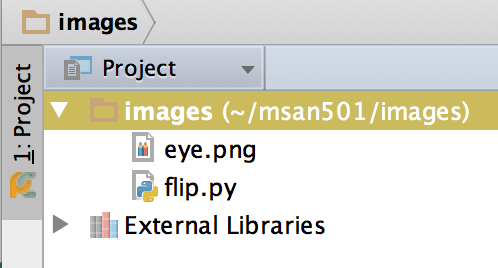
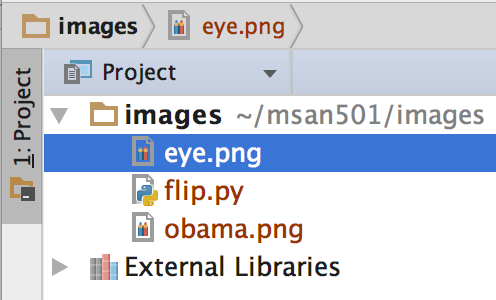
add git stuff to images

diff --git a/projects/images.tex b/projects/images.tex
@@ -252,9 +252,40 @@ Type "help", "copyright", "credits" or "license" for more information.
 
 That {\tt reinstall} command is also what you should if {\tt pip} or {\tt easy\_install} ever get hosed. Try to do everything with {\tt brew}.
 
+\section{Git repo}
+
+Let's prepare the environment so that submitting this project is easy. Download \href{https://www.sourcetreeapp.com/download/}{\textcolor{blue}{SourceTree}}. In SourceTree, choose {\tt File:New/Clone} and then {\tt Clone from URL}:
+
+\scalebox{.3}{\includegraphics{figures/source-tree-choices.png}}
+
+\noindent Then go to the URL associated with your images project at github: 
+
+{\tt https://github.com/USF-MSAN-2016/YOURID-images}
+
+\noindent and copy the URL from here:
+
+\scalebox{.9}{\includegraphics{figures/github-url.png}}
+
+\noindent Then, paste back in SourceTree, and set {\tt Destination Path} to {\tt /Users/YOURID/msan501/images}:
+
+\scalebox{.7}{\includegraphics{figures/source-tree-clone.png}}
+
+\noindent Or, from the command line, you can do this faster and easier:
+
+\begin{lstlisting}[style=BashInputStyle]
+$ cd ~/msan501
+$ git clone git@github.com:USF-MSAN-2016/parrt-images.git images
+Cloning into 'images'...
+warning: You appear to have cloned an empty repository.
+Checking connectivity... done.
+$ cd images
+\end{lstlisting}
+
+\noindent There is nothing in the repo yet, but we'll get to it!
+
 \section{Getting started}
 
-To get started, review how to access the \href{http://stackoverflow.com/questions/4117530/sys-argv1-meaning-in-script}{\textcolor{blue}{command-line arguments}} that every program running on a computer can accept. Here is a small program, \href{}{\tt view.py}, that accepts a filename as a command-line argument.
+To get started, review how to access the \href{http://stackoverflow.com/questions/4117530/sys-argv1-meaning-in-script}{\textcolor{blue}{command-line arguments}} that every program running on a computer can accept. Here is a small program, \href{https://github.com/parrt/msan501/blob/master/projects/code/images/view.py}{\tt view.py}, that accepts a filename as a command-line argument.
 
 \begin{pyverbatim}
 import sys
@@ -271,30 +302,31 @@ img.show()
 To run this program, launch a terminal on Mac or Linux. Then, move to the directory that contains {\tt view.py} that you saved/typed-in using terminal command {\tt cd} (change directory).  For example, if you are using directory {\tt msan501/images} under your home directory for this project, then type this for Mac:
 
 \begin{lstlisting}[style=BashInputStyle]
-cd /Users/YOURID/msan501/images
+cd ~/msan501/images; # ~ character is shorthand for /Users/YOURID
 \end{lstlisting}
 
-\noindent and this for Linux:
+You can get a \href{https://github.com/parrt/msan501/tree/master/projects/figures}{\textcolor{blue}{bunch of sample images}} that I use for these notes from github, but of course you can play around with whatever images you want.\sidenote{Remember, however, that all images used in this class and those stored on University equipment must be ``safe for work.'' Keep it G-rated please, with no offensive images popping up on your laptops or machines during lab etc.}
 
-\begin{lstlisting}[style=BashInputStyle]
-cd /home/YOURID/msan501/images
-\end{lstlisting}
-
-You can get a \href{https://github.com/parrt/msan501/tree/master/projects/figures}{\textcolor{blue}{bunch of sample images}} that I use for these notes from github.
-
-\noindent but of course you can play around with whatever images you want.\sidenote{Remember, however, that all images used in this class and those stored on University equipment must be ``safe for work.'' Keep it G-rated please, with no offensive images popping up on your laptops or machines during lab etc.}
-
-\noindent Now, we can execute our {\tt view.py} script and pass it an argument of {\tt obama.png}:
+Now, we can execute our {\tt view.py} script and pass it an argument of {\tt obama.png}:
 
 \begin{lstlisting}[style=BashInputStyle]
 $ python view.py obama.png
 \end{lstlisting}
 
-If you are using PyCharm, then you need to use the ``{\tt\small Edit configuration}'' dialog under the {\tt Run} menu.  All file names that we specify in the script parameters area, or from the command line, are relative to the {\em current working directory}. That is why we used {\tt cd} to change our working directory in the example above. For convenience, let's keep all of images and scripts in the same directory. For our purposes, let's assume that the directory is always {\tt\small /Users/YOURID/msan501/images} (Mac) or {\tt\small /home/YOURID/msan501/images} (Linux).
+If you are using PyCharm, you need to right-click in the code editor and say ``run view.py,'' which will ``fail'' with this message in the Run tab:
+
+\begin{alltt}
+/usr/local/bin/python /Users/parrt/github/msan501/projects/code/images/view.py
+$ python view.py imagefilename
+\end{alltt}
+
+\noindent Now, use the ``{\tt\small Edit configuration}'' dialog under the {\tt Run} menu.  All file names that we specify in the script parameters area, or from the command line, are relative to the {\em current working directory}. That is why we used {\tt cd} to change our working directory in the example above. For convenience, let's keep all of images and scripts in the same directory. For our purposes, let's assume that the directory is always {\tt\small /Users/YOURID/msan501/images} (Mac) or {\tt\small /home/YOURID/msan501/images} (Linux).
 
 \scalebox{1}{\includegraphics{figures/edit-config.png}}
 
 The ``Script parameters'' text field is where you provide the ``command-line arguments,'' despite the fact we are not actually using a command-line. That is why PyCharm calls it script parameters instead of command-line parameters.
+
+\pagebreak
 
 \section{Task 1. Flipping an image horizontally}
 
@@ -310,7 +342,11 @@ As a first task, you must create a script called {\tt flip.py} that shows the im
 
 \subsection{Boilerplate code}
 
-Here's the boilerplate or ``skeleton'' code (already in repo as {\tt images/flip.py}) that we already know how to do but with a hole where you need to define a function called {\tt flip} and a hole where you need to call that function to perform the flipping:
+Here's the boilerplate or ``skeleton'' code from:
+
+\href{https://github.com/parrt/msan501-starterkit/tree/master/images/flip.py}{\tt\small https://github.com/parrt/msan501-starterkit/tree/master/images/flip.py}
+
+\noindent that we already know how to do but with a hole where you need to define a function called {\tt flip} and a hole where you need to call that function to perform the flipping:
 
 \begin{pyverbatim}
 import sys
@@ -331,35 +367,64 @@ img.show()
 img.show()
 \end{pyverbatim}
 
-If you are using PyCharm, your project file list area should look like the list in \figref{fliplist}. It assumes that you have downloaded two image files as well.
+\subsection{Adding files to your repo}
+
+If you are using PyCharm, when you open the dir in PyCharm, it will notice that the dir is a git repo, but check anyway in the version control preferences:
+
+\scalebox{.9}{\includegraphics{figures/pycharm-git.png}}
 
 \begin{marginfigure}
 \begin{center}
 \scalebox{.8}{\includegraphics{figures/flip-proj-browser.png}}
 \end{center}
-\caption{Project file list after building the flip task}
+\caption{Project file list after creating the flip.py file}
 \label{fliplist}
 \end{marginfigure}
 
-The files are already in the repository because I did the following:
+\begin{marginfigure}
+\begin{center}
+\scalebox{.8}{\includegraphics{figures/flip-proj-browser2.png}}
+\end{center}
+\caption{Project file list after adding files to repo}
+\label{fliplist2}
+\end{marginfigure}
+
+
+After creating the {\tt flip.py} file and copying over an image or two, your project file list area should look like the list in \figref{fliplist}. Next, select those 3 files and right-click on them to get the popup menu, and add those files to git:
+
+\scalebox{.8}{\includegraphics{figures/pycharm-git-add.png}}
+
+\noindent \figref{fliplist2} shows how the files turn green. Use menu {\tt VCS:Commit changes} and then fill in a commit message and {\tt commit and push}:
+
+\scalebox{.8}{\includegraphics{figures/commit-changes.png}}
+
+PyCharm will bring up another dialog and you should click {\tt Push} to send files back to github.
+
+Now, go check out that github has the files:
+
+\scalebox{.9}{\includegraphics{figures/github-initial-add.png}}
+
+\begin{callout}{\bctakecare}
+By the way, PyCharm will ask you questions about adding files under {\tt .idea} directory. Don't add those to the repo! Say NO here:
+
+\begin{center}
+\scalebox{.6}{\includegraphics{figures/pycharm-auto-add.png}}
+\end{center}
+\end{callout}
+
+Or, alternatively, the cool kids avoid all that clicking with following:
 
 \begin{lstlisting}[style=BashInputStyle]
 $ cd ~/msan501/images
+... copy image files, create flip.py ...
+$ git add obama.png
 $ git add eye.png
 $ git add flip.py
 $ git commit -a -m 'add eye flip boilerplate code and image'
 [master adcf1df] add eye flip boilerplate code and image
- 2 files changed, 16 insertions(+)
- create mode 100644 images/eye.png
- create mode 100644 images/flip.py
+...
 $ git push origin master
-Counting objects: 5, done.
-Delta compression using up to 8 threads.
-Compressing objects: 100% (5/5), done.
-Writing objects: 100% (5/5), 238.35 KiB | 0 bytes/s, done.
-Total 5 (delta 0), reused 0 (delta 0)
-To git@github.com:parrt/msan501-starterkit.git
-   b5820e1..adcf1df  master -> master
+...
 \end{lstlisting}
 
 \subsection{Three new Pillow pieces}
@@ -416,7 +481,7 @@ $ python flip.py eye.png
 
 {\bf From PyCharm}, I right-click and then select ``Run.'' It will do nothing but print ``{\tt missing image filename}'' because we have not given it a parameter yet, but we need to do this so that PyCharm creates a run configuration. Now, use the edit configuration dialog to specify {\tt eye.png} as a parameter or any other image. ({\em Remember that the filename must refer to a file in the current working directory or must be fully qualified.}) Click ``Run'' now and it should bring out the two images.
 
-\scalebox{.82}{\includegraphics{figures/flip-config.png}}
+\scalebox{.9}{\includegraphics{figures/flip-config.png}}
 
 \subsection{What to do when the program doesn't work}
 
@@ -598,8 +663,6 @@ For our next task, we are going to de-noise (remove noise) from an image as show
 
 Believe it or not, we can implement the noise by copying {\tt blur.py} into a new script called {\tt denoise.py} and then changing a few lines.  We also have to remove the  no-longer-used {\tt avg} function and replace it with a {\tt denoise} function.  Of course, instead of calling {\tt blur}, we'll call function {\tt denoise} with the usual {\tt img} argument. The only difference between {\tt denoise} and {\tt blur} is that you will set the pixel to the {\tt median} not {\tt avg}.  Hint: you need to tweak one statement in the inner loop that moves over all pixel values.
 
-{\bf Now define function} {\tt median} that, like {\tt avg}, takes a list of 9 numbers called {\tt data}. Sort the list using Python's {\tt sorted} function that takes a list and returns a sorted version of that list. Then compute the index of the middle list element, which is just the length of the list divided by two. If the length is even, dividing by 2 (not 2.0) will round it down to the nearest index. Once you have this index, return the element at that index.
-
 \begin{marginfigure}
 \begin{center}
 (a) \scalebox{.5}{\includegraphics{figures/guesswho.png}}\\
@@ -610,6 +673,9 @@ Believe it or not, we can implement the noise by copying {\tt blur.py} into a ne
 \captionof{figure}{Denoising an image of President Obama with lots of salt-and-pepper noise. (a) the noisy image, (b) denoised as computed by {\tt denoise.py}, (c) denoised 2x, (d) original.}
 \label{obama}
 \end{marginfigure}
+
+
+{\bf Now define function} {\tt median} that, like {\tt avg}, takes a list of 9 numbers called {\tt data}. Sort the list using Python's {\tt sorted} function that takes a list and returns a sorted version of that list. Then compute the index of the middle list element, which is just the length of the list divided by two. If the length is even, dividing by 2 (not 2.0) will round it down to the nearest index. Once you have this index, return the element at that index.
 
 
 Let's give it a test:
